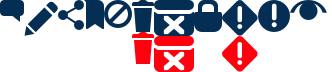
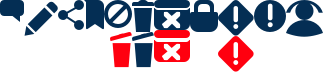
Too much time/effort spent on post action animations

diff --git a/source/styles.css b/source/styles.css
@@ -561,13 +561,8 @@ body >.content .link .rank, .rank-spacer {
 	border-radius: 2px;
 	cursor: default;
 	margin: 0;
-	opacity: .8;
 	transition: background-color 0.2s ease-in-out;
 	width: 33px;
-}
-
-.arrow:hover {
-	opacity: 1;
 }
 
 /* Upvotes */
@@ -647,6 +642,7 @@ body:not(.subscriber) .arrow:hover:after {
 	margin: 0;
 	position: absolute;
 	top: 0;
+	transition: .1s ease-in-out border;
 	width: 102px;
 }
 .thumbnail.self, .thumbnail.spoiler {
@@ -823,7 +819,7 @@ body:not(.res) .expando-button {
 
 /* Submitted X ago by.. */
 .entry .tagline {
-	bottom: 14px;
+	bottom: 13px;
 	color: rgba(4,46,84,.5);
 	display: inline-block;
 	font-size: 12px;
@@ -848,10 +844,12 @@ body:not(.res) .expando-button {
 
 .link .entry .tagline a {
 	color: rgba(4,46,84,.5);
+	vertical-align: bottom;
 }
 
 .link .entry .tagline time {
 	display: inline-block;
+	vertical-align: bottom;
 }
 [lang^=en] .link .entry .tagline time:first-letter {
 	text-transform: uppercase;
@@ -880,6 +878,7 @@ body:not(.res) .expando-button {
 	content: "by ";
 	color: rgba(4,46,84,.5) !important;
 	font-weight: normal;
+	vertical-align: bottom;
 }
 [lang^=en] .res .link .entry .tagline a.author.moderator:before {
 	display: none;
@@ -1006,24 +1005,36 @@ body:not(.res) .expando-button {
 .link .entry .marknsfw-button a, .link .entry .spoiler-button a, .link .entry .flairselectbtn {
 	background: url(%%actions%%) no-repeat;
 	display: inline-block;
-	opacity: .25;
+	opacity: .15;
 	overflow: hidden;
 	text-indent: 100%;
 	transition: .1s ease-in-out opacity;
 	white-space: nowrap;
 }
 
+/* Fade regular/non-moderator actions for moderators */
+.moderator .link .entry .edit-usertext, .moderator .link .entry .share a,
+.moderator .link .entry .save-button a, .moderator .link .entry .hide-button a, .moderator .link .entry .del-button a {
+	opacity: .1;
+}
+
+.link:hover .entry .edit-usertext, .link:hover .entry .share a,
+.link:hover .entry .save-button a, .link:hover .entry .hide-button a, .link:hover .entry .del-button a,
+.link:hover .entry .remove-button a, .link:hover .entry a[data-event-action="spam"], .link:hover .entry .lock-button a,
+.link:hover .entry .marknsfw-button a, .link:hover .entry .spoiler-button a, .link:hover .entry .flairselectbtn {
+	opacity: .25;
+}
+
 /* Retina/HiDPI */
 @media only screen and (min--moz-device-pixel-ratio: 2),
 only screen and (-webkit-min-device-pixel-ratio: 2),
 only screen and (min-device-pixel-ratio: 2), only screen and (min-resolution: 2dppx) {
-
 	.link .entry li .comments:before, .link .entry .edit-usertext, .link .entry .share a,
 	.link .entry .save-button a, .link .entry .hide-button a, .link .entry .del-button a,
 	.link .entry .remove-button a, .link .entry a[data-event-action="spam"], .link .entry .lock-button a,
 	.link .entry .marknsfw-button a, .link .entry .spoiler-button a, .link .entry .flairselectbtn {
 		background: url(%%actions-2x%%);
-		background-size: 146px 36px;
+		background-size: 162px 36px;
 	}
 }
 
@@ -1031,7 +1042,7 @@ only screen and (min-device-pixel-ratio: 2), only screen and (min-resolution: 2d
 .link .entry .hide-button a:hover, .link .entry .del-button a:hover, .link .entry .remove-button a:hover,
 .link .entry a[data-event-action="spam"]:hover, .link .entry .lock-button a:hover,
 .link .entry .marknsfw-button a:hover, .link .entry .spoiler-button a:hover, .link .entry .flairselectbtn:hover {
-	opacity: .8;
+	opacity: 1;
 }
 
 .link .entry li .comments {
@@ -1056,9 +1067,9 @@ only screen and (min-device-pixel-ratio: 2), only screen and (min-resolution: 2d
 }
 
 .link .entry .edit-usertext {
-	background-position: -10px 0;
+	background-position: -12px 0;
 	height: 18px;
-	width: 18px;
+	width: 17px;
 }
 
 .link .entry .share a {
@@ -1066,11 +1077,21 @@ only screen and (min-device-pixel-ratio: 2), only screen and (min-resolution: 2d
 	height: 15px;
 	width: 13px;
 }
+
 .link .entry .save-button a {
 	background-position: -42px 0;
 	height: 15px;
 	width: 10px;
 }
+.link .entry .save-button a:hover {
+	animation: .4s action-save ease;
+}
+
+@keyframes action-save {
+	0% { background-position: -42px -12px; }
+	100% { background-position: -42px 0; }
+}
+
 .link .entry .hide-button a {
 	background-position: -52px 0;
 	height: 14px;
@@ -1082,47 +1103,71 @@ only screen and (min-device-pixel-ratio: 2), only screen and (min-resolution: 2d
 	height: 16px;
 	width: 11px;
 }
-.link .entry .del-button a, {
+
+.link .entry .del-button a {
 	transition: none;
 }
+
+.link .entry .del-button a:hover, .link .entry .remove-button a:hover {
+	height: 18px;
+}
+
+/* Red when deleting self-post */
 .link .entry .del-button a:hover {
+	background-position: -55px -16px;
+}
+/* Regular when removing */
+.link .entry .remove-button a:hover {
 	background-position: -66px -16px;
 }
 
 .link .entry a[data-event-action="spam"] {
 	background-position: -77px 0;
-	height: 18px;
-	width: 20px;
+	height: 15px;
+	width: 18px;
 }
 .link .entry a[data-event-action="spam"]:hover {
-	background-position: -77px -18px;
+	background-position: -77px -15px;
+	height: 16px;
 }
 
 .link .entry .lock-button a {
-	background-position: -97px 0;
+	background-position: -95px 0;
 	height: 16px;
 	width: 14px;
 }
 
 .link .entry .marknsfw-button a {
-	background-position: -111px 0;
+	background-position: -109px 0;
 	height: 18px;
 	transition: none;
 	width: 18px;
 }
 .link .entry .marknsfw-button a:hover {
-	background-position: -111px -18px;
+	background-position: -109px -18px;
 }
 
 .link .entry .spoiler-button a {
-	background-position: -129px 0;
+	background-position: -127px 0;
 	height: 16px;
 	width: 16px;
 }
 .link .entry .flairselectbtn {
-	background-position: -145px 0;
+	background-position: -143px 0;
 	height: 10px;
 	width: 19px;
+}
+.link .entry .flairselectbtn:hover {
+	animation: flair-blink 5s steps(1, end) infinite;
+}
+
+@keyframes flair-blink {
+	0% { background-position: -143px 0; height: 10px; }
+	15% { background-position: -143px -10px; height: 9px; }
+	18% { background-position: -143px 0; height: 10px; }
+	82% { background-position: -143px -10px; height: 9px; }
+	85% { background-position: -143px 0; height: 10px; }
+	100% { background-position: -143px 0; height: 10px; }
 }
 
 .link .entry li .comments:hover {
@@ -1811,7 +1856,7 @@ div.titlebox span.number:after {
 	font-weight: normal;
 	height: auto;
 	line-height: 22px;
-	padding: 0 12px;
+	padding: 0 6px;
 	text-transform: capitalize;
 	transition: background .08s ease-in-out,color .08s ease-in-out, padding .08s ease-in-out, margin 0.2s ease-in-out;
 }
@@ -4675,6 +4720,7 @@ body.listing-page>.content {
 .listing-page .link, .listing-page .comment {
 	background: #F8F8F8;
 	padding: 16px 16px 12px 118px;
+	transition: .1s ease-in-out box-shadow;
 }
 
 .listing-page .link:nth-of-type(1), .listing-page .comment:nth-of-type(1) {
@@ -4999,7 +5045,7 @@ only screen and (min-device-pixel-ratio: 2), only screen and (min-resolution: 2d
 }
 
 .entry .buttons .first {
-	bottom: 14px;
+	bottom: 13px;
 	left: 154px;
 	margin: 0;
 	position: absolute;
